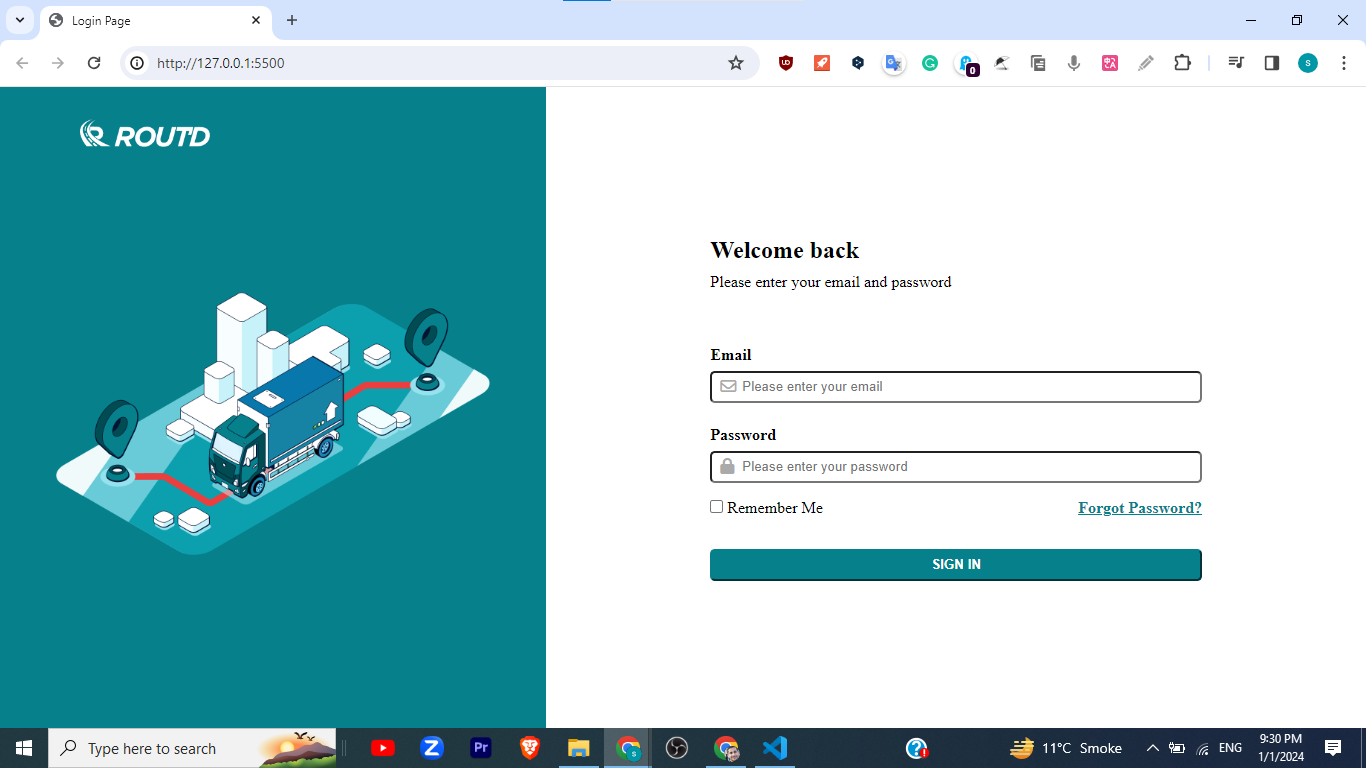
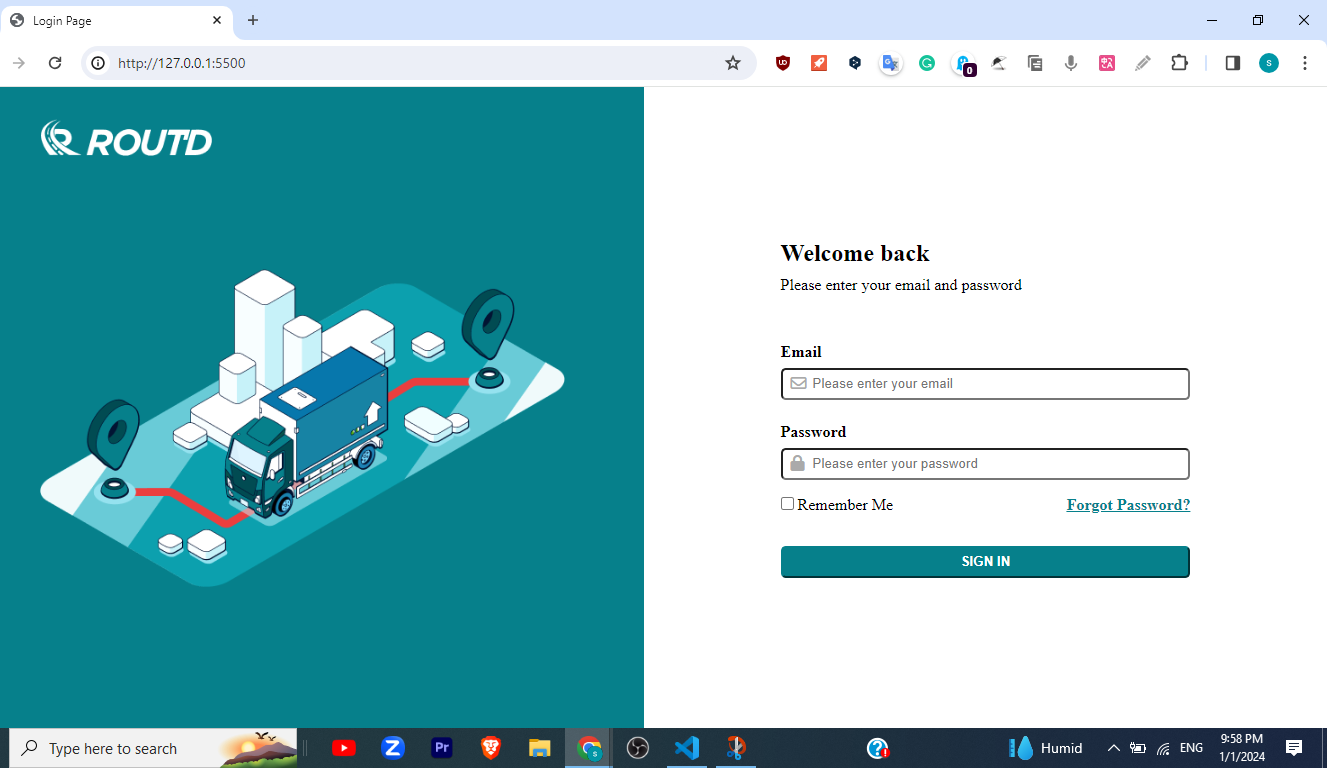
Adjusted width for having 2 equal columns

diff --git a/style.css b/style.css
@@ -15,7 +15,7 @@ body, html {
   }
 
 .left-login-page{
-    flex: 40%;
+    flex: 50%;
     flex-direction: column;
     display: flex;
    /* align-items: center; 
@@ -58,7 +58,7 @@ body, html {
 }
 
 .right-login-page{
-    flex: 60%;
+    flex: 50%;
     display: flex;
     flex-direction: column;
     justify-content: center;
@@ -168,9 +168,15 @@ body, html {
     }
 
 
+    .left-login-page {
+        padding-top: 1.5rem;
+        padding-bottom: 1.5rem;
+
+      }
+
       .right-login-page {
-        padding-top: 3rem;
-        padding-bottom: 3rem;
+        padding-top: 1.5rem;
+        padding-bottom: 1.5rem;
 
       }
 
